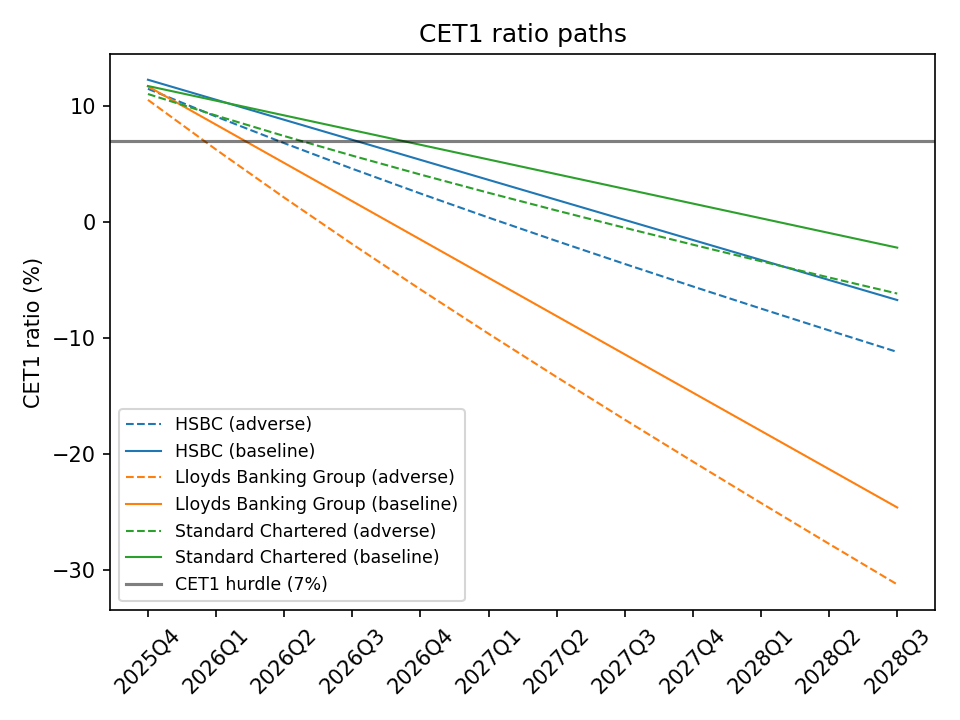
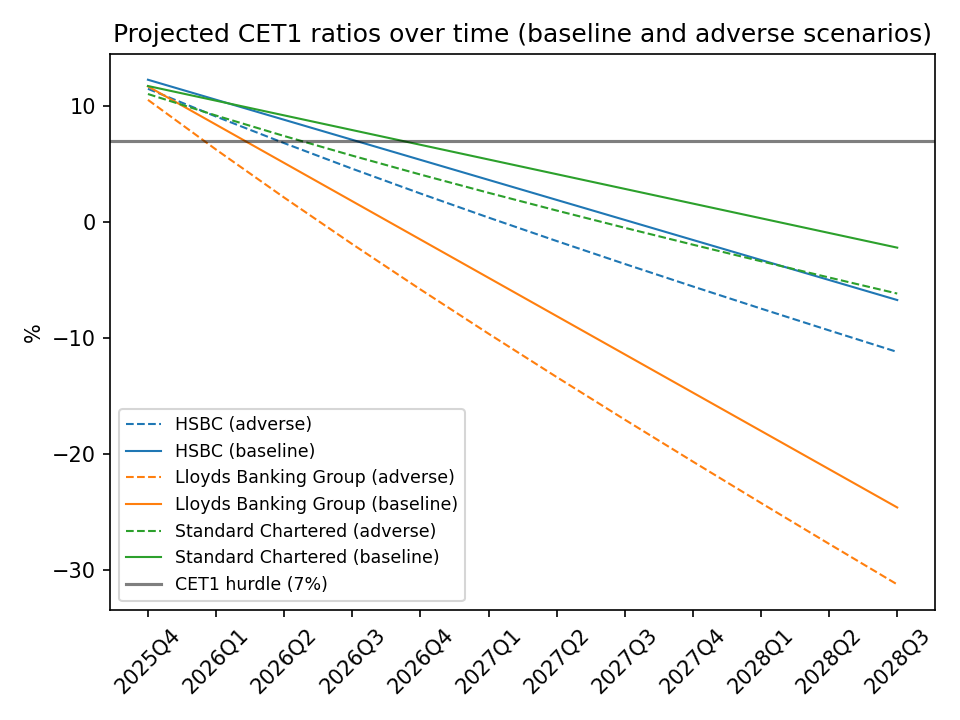
trough_shortfall_adverse.png done

diff --git a/src/stress_test/reporting.py b/src/stress_test/reporting.py
@@ -72,6 +72,7 @@ def write_losses_by_bucket_csv(losses_by_bucket: pd.DataFrame, out_dir: Path) ->
     losses_by_bucket.to_csv(out_path, index=False)
     return out_path
 
+# Capital resilience over time
 def plot_cet1_ratio_paths(cet1_ratio_paths: pd.DataFrame, out_dir: Path) -> Path:
     """Plot CET1 Ratio Paths"""
     out_dir.mkdir(parents=True, exist_ok=True)
@@ -111,8 +112,8 @@ def plot_cet1_ratio_paths(cet1_ratio_paths: pd.DataFrame, out_dir: Path) -> Path
                 linewidth=1
             )
     plt.axhline(y=hurdle, color='black', alpha=0.5, linestyle='-', label='CET1 hurdle (7%)')
-    ax.set_title("CET1 ratio paths")
-    ax.set_ylabel("CET1 ratio (%)")
+    ax.set_title("Projected CET1 ratios over time (baseline and adverse scenarios)")
+    ax.set_ylabel("%")
     ax.tick_params(axis="x", rotation=45)
     ax.legend(loc="best", fontsize="small")
 
@@ -121,6 +122,7 @@ def plot_cet1_ratio_paths(cet1_ratio_paths: pd.DataFrame, out_dir: Path) -> Path
     plt.close(fig)
     return out_path
 
+# Severity and persistence of credit stress
 def plot_total_losses_paths(loss_paths: pd.DataFrame, out_dir: Path) -> Path:
     """Plot total losses path"""
     out_dir.mkdir(parents=True, exist_ok=True)
@@ -159,8 +161,8 @@ def plot_total_losses_paths(loss_paths: pd.DataFrame, out_dir: Path) -> Path:
                 linewidth=1
             )
 
-    ax.set_title("Total Losses paths")
-    ax.set_ylabel("Total Losses (£bn)")
+    ax.set_title("Projected total credit losses over time")
+    ax.set_ylabel("£ bn")
     ax.tick_params(axis="x", rotation=45)
     ax.legend(loc="best", fontsize="small")
 
@@ -169,6 +171,7 @@ def plot_total_losses_paths(loss_paths: pd.DataFrame, out_dir: Path) -> Path:
     plt.close(fig)
     return out_path
 
+# Which banks breach and by how much (ratios)
 def plot_trough_cet1_ratio_adverse(trough_summary: pd.DataFrame, out_dir: Path) -> Path:
     """Plot trough CET1 ratio vs hurdle (adverse)"""
     out_dir.mkdir(parents=True, exist_ok=True)
@@ -184,8 +187,8 @@ def plot_trough_cet1_ratio_adverse(trough_summary: pd.DataFrame, out_dir: Path) 
     df = df[["bank_trough_quarter", "trough_cet1_ratio (%)"]]
     fig, ax = plt.subplots()
     ax.bar(df["bank_trough_quarter"], df["trough_cet1_ratio (%)"])
-    ax.set_title("Trough CET1 ratio (adverse scenario)")
-    ax.set_ylabel("CET1 ratio (%)")
+    ax.set_title("Worst-case CET1 ratio by bank (adverse scenario)")
+    ax.set_ylabel("%")
     plt.axhline(y=hurdle, color='black', linestyle='--', label='CET1 hurdle (7%)')
     ax.tick_params(axis="x", rotation=15)
     ax.legend(loc="best", fontsize="small")
@@ -195,7 +198,29 @@ def plot_trough_cet1_ratio_adverse(trough_summary: pd.DataFrame, out_dir: Path) 
     plt.close(fig)
     return out_path
 
+# Capital required at the trough
+def plot_trough_shortfall_adverse(trough_summary: pd.DataFrame, out_dir: Path) -> Path:
+    """Plot trough shortfall (adverse)"""
+    out_dir.mkdir(parents=True, exist_ok=True)
+    out_path = out_dir / "trough_shortfall_adverse.png"
+    df = trough_summary.copy()
+    df = df[df["scenario"]=="adverse"]
+    required_cols = {"bank", "trough_quarter", "shortfall_gbp"}
+    missing = required_cols - set(df.columns)
+    if missing:
+        raise ValueError(f"trough_summary missing required columns: {missing}")
+    df["bank_trough_quarter"] = df["bank"].astype(str) + " (" + df["trough_quarter"].astype(str) + ")"
+    df = df[["bank_trough_quarter", "shortfall_gbp"]]
+    fig, ax = plt.subplots()
+    ax.bar(df["bank_trough_quarter"], df["shortfall_gbp"])
+    ax.set_title("Worst-case shortfall by bank (adverse scenario)")
+    ax.set_ylabel("£ bn")
+    ax.tick_params(axis="x", rotation=15)
 
+    fig.tight_layout()
+    fig.savefig(out_path, dpi=150)
+    plt.close(fig)
+    return out_path
 
 
 def plot_results_figures(
@@ -213,6 +238,7 @@ def plot_results_figures(
         plotted.append(plot_cet1_ratio_paths(cet1_ratio_paths, out_dir))
         plotted.append(plot_total_losses_paths(loss_paths, out_dir))
         plotted.append(plot_trough_cet1_ratio_adverse(trough_summary, out_dir))
+        plotted.append(plot_trough_shortfall_adverse(trough_summary, out_dir))
     return plotted
 
 def write_results_tables(

diff --git a/scripts/run_stress_test.py b/scripts/run_stress_test.py
@@ -213,9 +213,8 @@ def main() -> None:
 
         if args.print_system_results:
             print(system_results)
-
-        print("\nTrough / shortfall summary:\n")
-        print(trough_summary)
+            print("\nTrough / shortfall summary:\n")
+            print(trough_summary)
 
         if args.write_results_csv:
             paths = rpt.write_results_tables(
@@ -231,16 +230,16 @@ def main() -> None:
             for p in paths:
                 print(f"Wrote: {p}")
             
-            if args.plot_figures:
-                paths = rpt.plot_results_figures(
-                    cet1_ratio_paths=cet1_ratio_paths,
-                    loss_paths=loss_paths,
-                    trough_summary=trough_summary,
-                    out_dir=OUTPUT_FIGURES_DIR,
-                    plot_figures=True
-                )
-                for p in paths:
-                    print(f"Saved: {p}.png")
+        if args.plot_figures:
+            paths = rpt.plot_results_figures(
+                cet1_ratio_paths=cet1_ratio_paths,
+                loss_paths=loss_paths,
+                trough_summary=trough_summary,
+                out_dir=OUTPUT_FIGURES_DIR,
+                plot_figures=True
+            )
+            for p in paths:
+                print(f"Saved: {p}")
 
     else:
         if args.write_results_csv:
